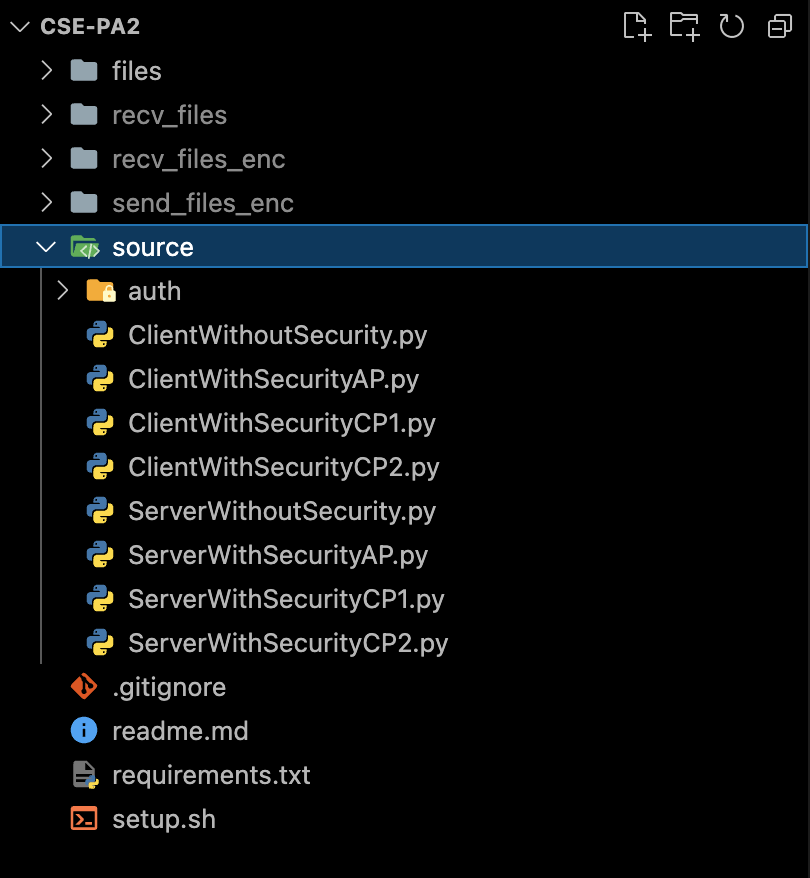
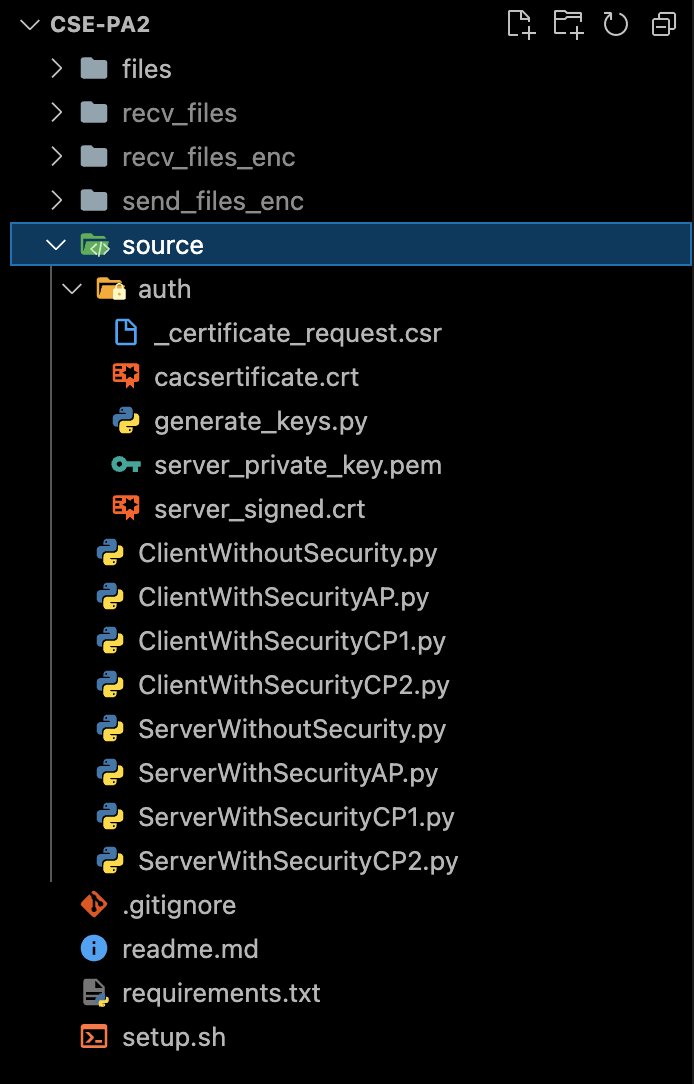
feat: update the screenshot for final sub

diff --git a/docs/Programming Assignment/pa2/03-submission.md b/docs/Programming Assignment/pa2/03-submission.md
@@ -36,14 +36,14 @@ You are expected to <span style="color:#f77729;"><b>save</b></span> <span class=
 2. Server to save received encrypted file to client to `/recv_files_enc` before decrypting, with the name `enc_recv_[filename]`, e.g: `enc_recv_image.ppm`.
 
 You should have the following files now:
-<img src="{{ site.baseurl }}/docs/Programming%20Assignment/pa2/images/03-submission/2024-07-25-14-19-48.png"  class="center_fifty no-invert" />
+<img src="{{ site.baseurl }}/docs/Programming Assignment/pa2/images/03-submission/2024-07-25-14-19-48.png"  class="center_fifty no-invert" />
 
 The new files are mainly (<span class="orange-bold">names must be exactly these</span>):
 
 ```sh
 1. server_signed.crt, server_private_key.pem # in source/auth
-2. ClientWithSecurityAP/[CP1|CP2].py # in source/
-3. ServerWithSecurityAP/[CP1|CP2].py # in source/
+2. ClientWithSecurity[AP|CP1|CP2].py # in source/
+3. ServerWithSecurity[AP|CP1|CP2].py # in source/
 ```
 
 All other files inside `[PROJ_ROOT_DIR]/files` directory must **remain** as per the original files from the previous sections.
